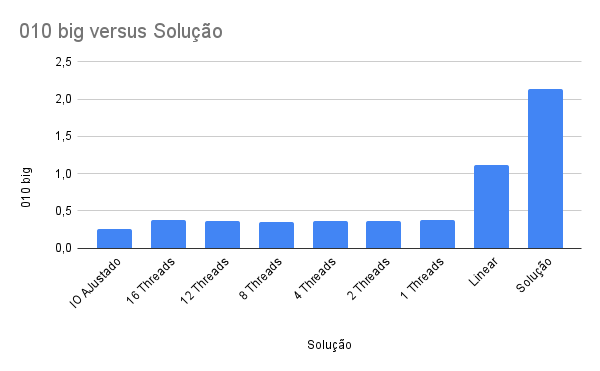
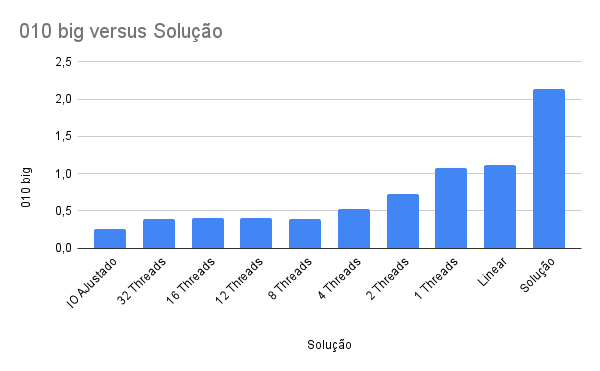
Small Fixes.

diff --git a/relatorios/Gabriel/src/ursal_hash_paralelo.c b/relatorios/Gabriel/src/ursal_hash_paralelo.c
@@ -1,6 +1,11 @@
 #include <stdio.h>
 #include <string.h>
 #include <stdlib.h>
+#include <omp.h>
+
+#ifndef THREADS
+  #define THREADS 16
+#endif
 
 int getFileSize(FILE* file){
   
@@ -81,6 +86,8 @@ int main(int argc ,char** argv) {
     exit(-1);
   }
 
+
+  omp_set_num_threads(THREADS);
   char *filePath = argv[1];
   FILE* arquivo = fopen(filePath, "rb");
   if (arquivo == NULL) {

diff --git a/relatorios/Gabriel/README.md b/relatorios/Gabriel/README.md
@@ -64,12 +64,13 @@ Devido a dificuldades no acesso das maquinas disponibilizadas, os testes foram r
 |Solução|011 big|010 big|
 |-|-|-|
 |IO AJustado|0.99|0.26|
-|16 Threads|0.93|0.38|
-|12 Threads|0.99|0.37|
-|8 Threads|0.94|0.35|
-|4 Threads|0.94|0.36|
-|2 Threads|0.93|0.36|
-|1 Threads|1.98|0.38|
+|32 Threads|1.03|0.39|
+|16 Threads|0.99|0.41|
+|12 Threads|1.02|0.40|
+|8 Threads|1.08|0.39|
+|4 Threads|1.68|0.53|
+|2 Threads|2.36|0.72|
+|1 Threads|3.87|1.08|
 |Linear|3.90|1.11|
 |Solução Ingenua|8.50|2.13|
 
